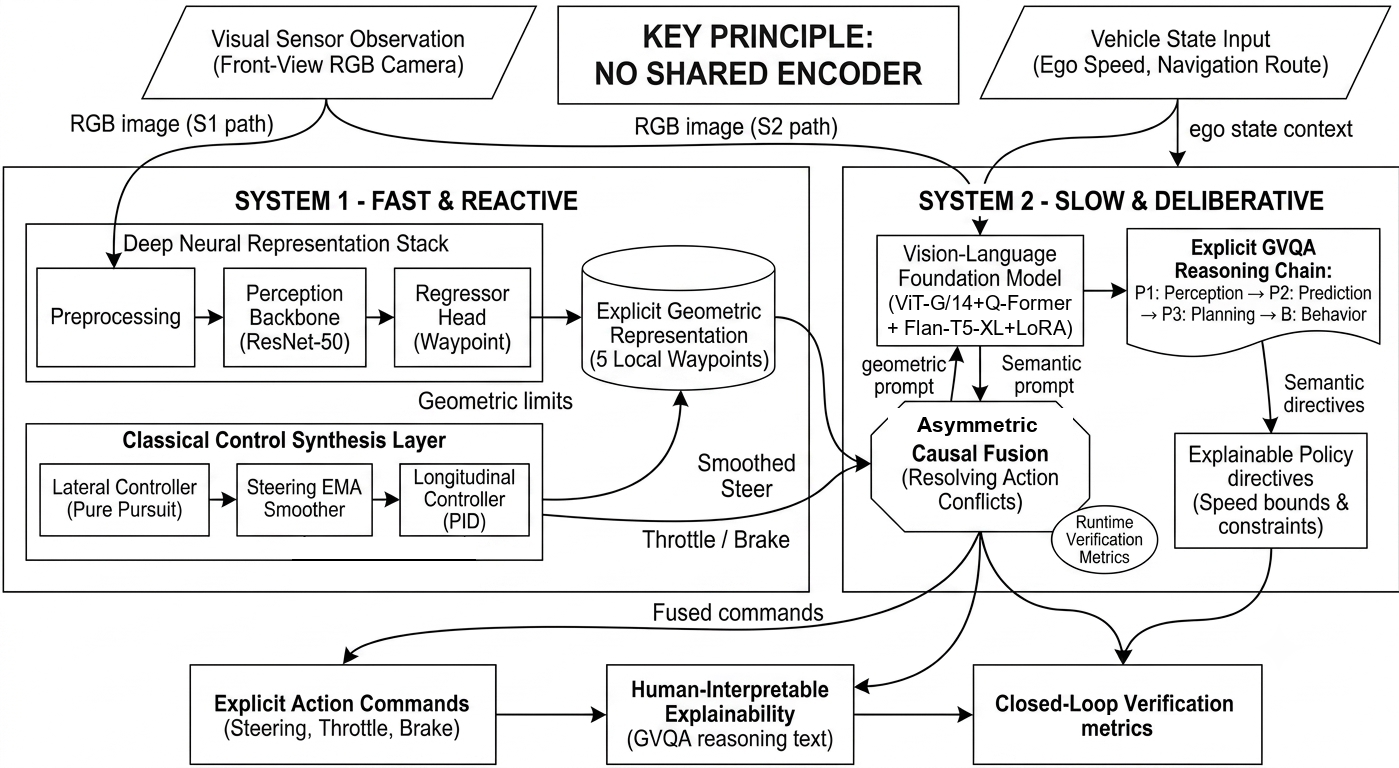
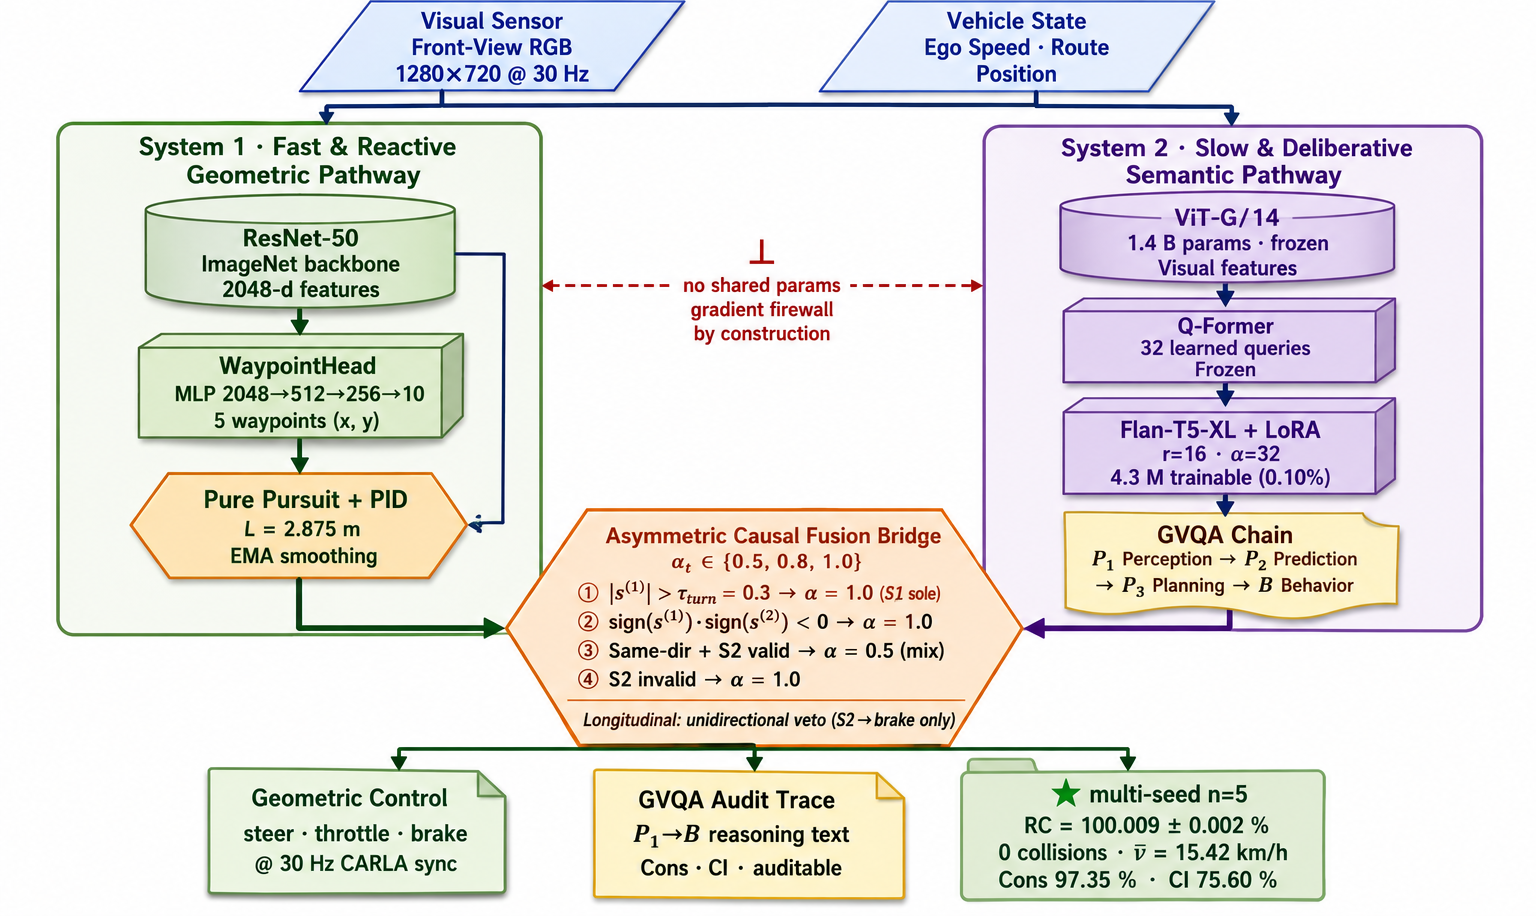
fix: 架構圖換成彩色版 —— 原本放的黑白圖與圖說對不上
圖說描述「紅色虛線」「綠色 System 1」「紫色 System 2」「橘色融合橋」，
但實際放上去的是 CACS 的黑白流程圖。我把兩個來源對調了：
彩色版在碩論定稿 figures/graphviz/fig1_1.png，
CACS 的 architecture.png 才是黑白版。

彩色版另有黑白版沒有的內容：輸入規格 1280x720 @ 30 Hz、
ResNet-50 的 2048 維特徵與 WaypointHead 的層數、
ViT-G/14 14 億參數凍結、LoRA r=16 共 430 萬可訓練參數（0.10%）、
融合橋的四條規則與門檻值、以及底部的多種子驗證結果。

alt 文字重寫，完整描述彩色圖的結構與規格數值。

diff --git a/site/index.html b/site/index.html
@@ -189,10 +189,10 @@
           <figure class="fig">
             <img
               src="files/architecture.png"
-              width="1399"
-              height="768"
+              width="1536"
+              height="916"
               loading="lazy"
-              alt="雙過程架構圖。左側綠色為 System 1 幾何路徑：ResNet-50 骨幹輸出 2048 維特徵，經 WaypointHead 多層感知器產生五個路徑點，再由 Pure Pursuit 與 PID 合成轉向與油門。右側紫色為 System 2 語義路徑：ViT-G/14 凍結視覺編碼器、Q-Former 32 個查詢、Flan-T5-XL 加 LoRA 微調 4.3 M 參數，輸出四層 GVQA 推理鏈。兩條路徑之間以紅色虛線標示無共享參數的梯度防火牆。中央橘色為非對稱因果融合橋，依四條規則決定融合權重。"
+              alt="雙過程架構圖。上方兩個藍色平行四邊形為輸入：前視 RGB 相機 1280x720 @ 30 Hz，以及車輛狀態（自車速度、路徑、位置）。左側綠色為 System 1 幾何路徑：ResNet-50 ImageNet 骨幹輸出 2048 維特徵，經 WaypointHead 多層感知器 2048-512-256-10 產生五個路徑點，再由 Pure Pursuit 加 PID 合成控制，前視距離 2.875 公尺並以 EMA 平滑。右側紫色為 System 2 語義路徑：ViT-G/14 共 14 億參數且凍結、Q-Former 32 個學習查詢且凍結、Flan-T5-XL 加 LoRA r=16 alpha=32 共 430 萬可訓練參數佔 0.10%，輸出 GVQA 四層推理鏈。兩條路徑之間以紅色虛線標示 no shared params、gradient firewall by construction。中央橘色六邊形為非對稱因果融合橋，列出四條規則決定融合權重，並註明縱向為單向否決，System 2 只能煞車。下方三個輸出：幾何控制指令、GVQA 稽核軌跡、以及多種子 n=5 的驗證結果。"
             />
             <figcaption>
               兩條路徑之間那條<strong>紅色虛線</strong>是整個設計的重點：
